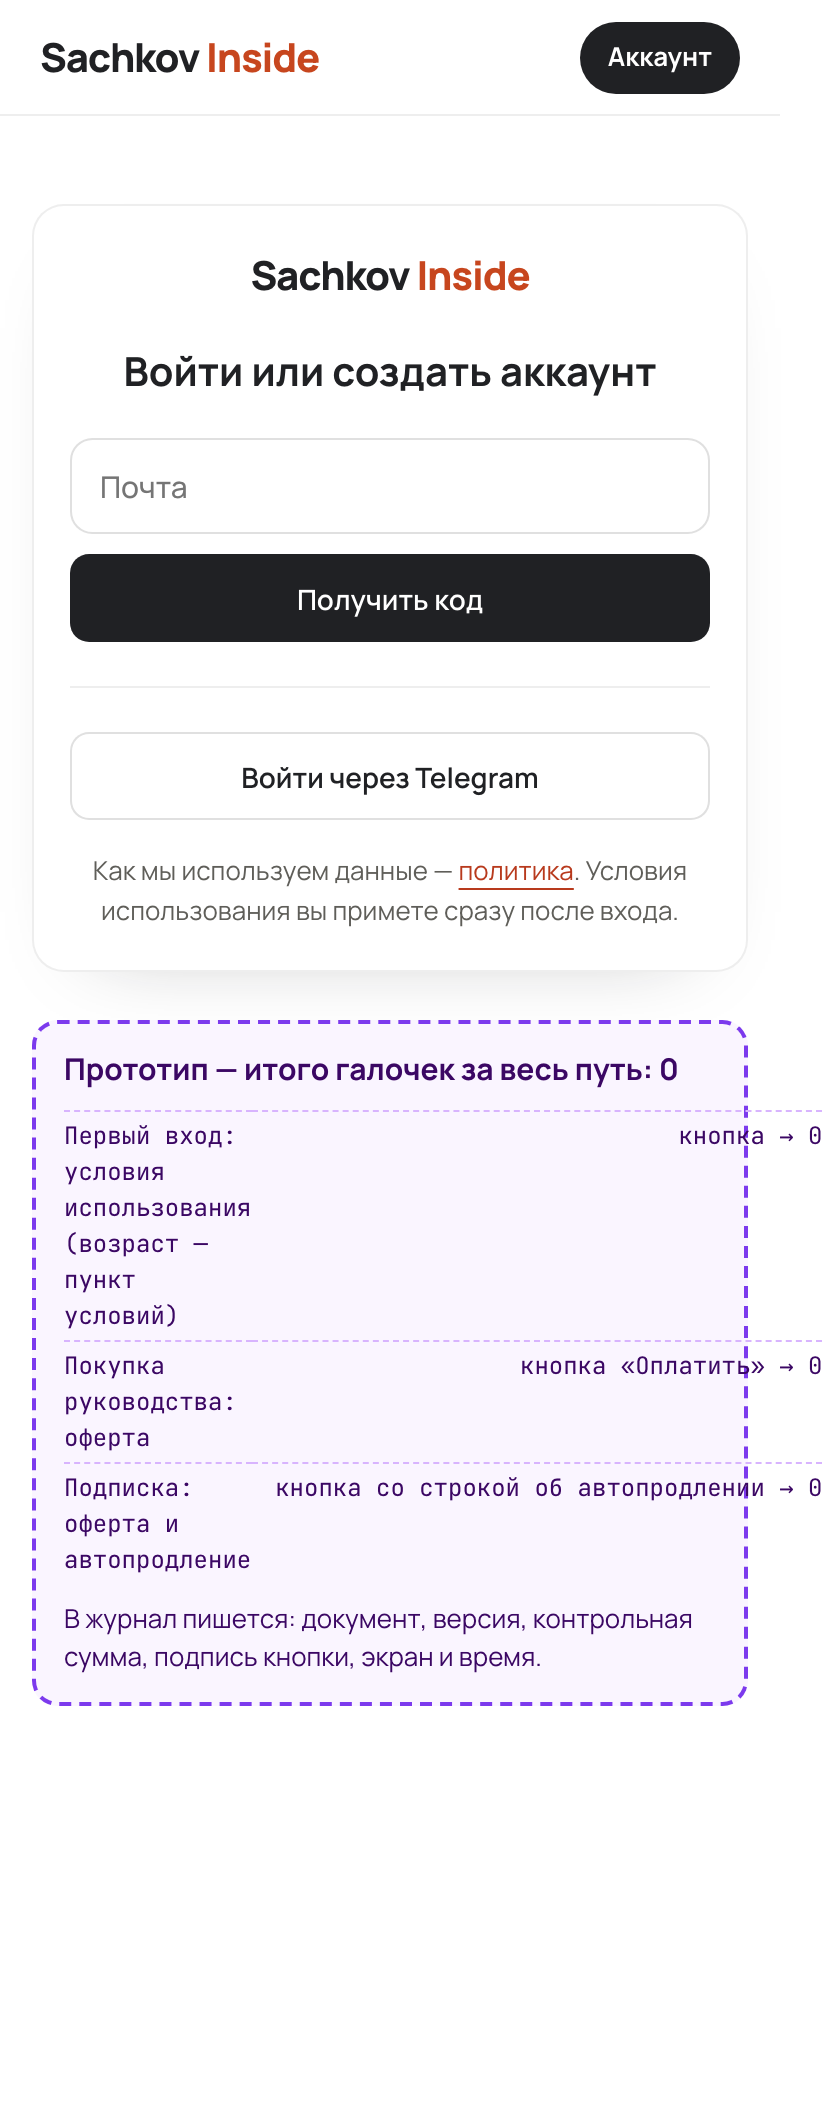
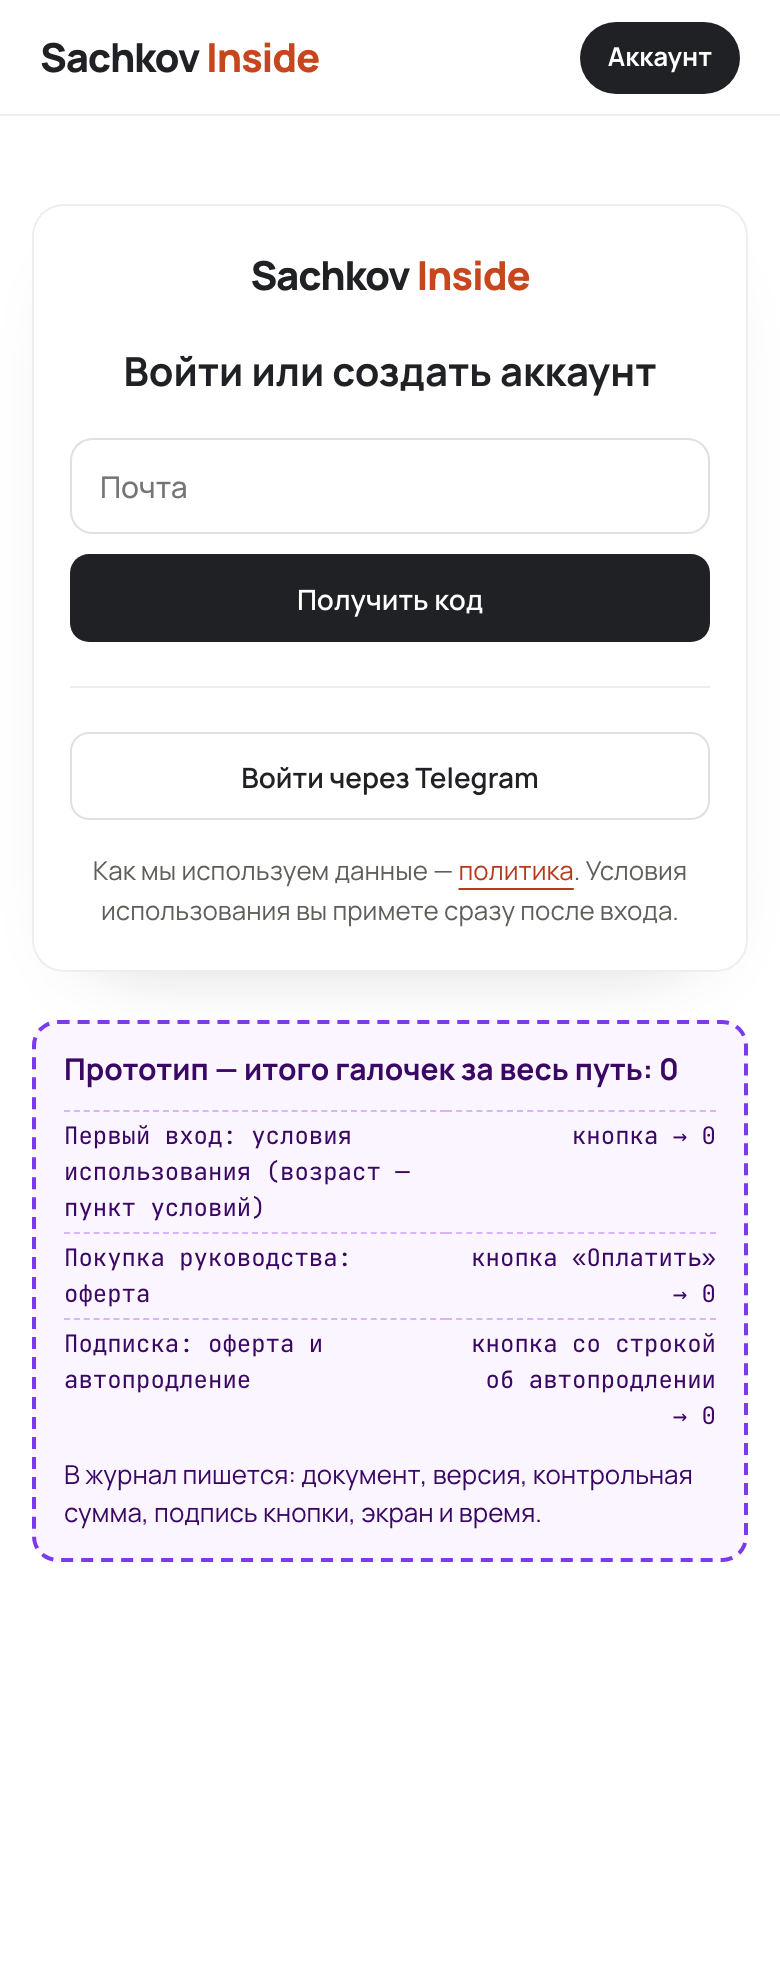
docs(legal): keep prototype tally within phone width (#185)

diff --git a/product/legal/prototypes/185-consents/index.html b/product/legal/prototypes/185-consents/index.html
@@ -103,7 +103,8 @@
   .tally b { font-size: 15px; }
   .tally table { width: 100%; border-collapse: collapse; margin-top: 8px; font-family: var(--font-mono); font-size: 12px; }
   .tally td { padding: 3px 0; border-top: 1px dashed #d8b4fe; vertical-align: top; }
-  .tally td:last-child { text-align: right; white-space: nowrap; padding-left: 12px; }
+  .tally td:last-child { text-align: right; padding-left: 12px; }
+  .tally td { overflow-wrap: anywhere; }
   .proto-bar { position: fixed; left: 50%; bottom: 16px; transform: translateX(-50%); z-index: 50; display: flex; flex-wrap: wrap;
     justify-content: center; align-items: center; gap: 4px; max-width: calc(100% - 16px); background: #2e1065; color: #fff;
     padding: 6px; border-radius: 1rem; box-shadow: 0 10px 30px rgb(46 16 101 / 45%); font-size: 12px; font-weight: 600; }
